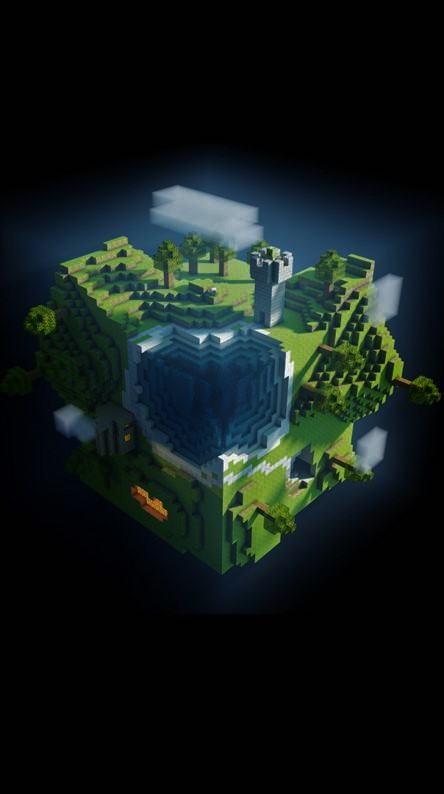
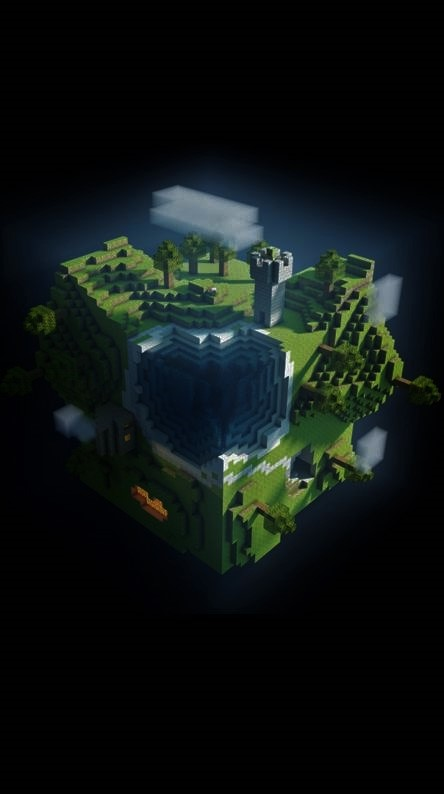
fix size

diff --git a/uwu/style.css b/uwu/style.css
@@ -4,15 +4,15 @@ body {
     background-repeat: no-repeat;
     background-size: cover;
     background-color:black;
-    
+    background-position:  top ;
     }
 }
 
-@media only screen and (max-width: 360px) {
+@media only screen and (max-width: 400px) {
 body {
     background-image: url(img/Minecraft-Wallpapers-102.jpg);
     background-color: black;
     background-size: cover;
     background-position: center;
     }
-  }
+}
